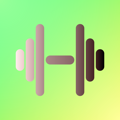
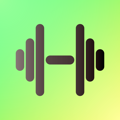
darker dumbbel

Changed region(s): [[0.125, 0.2, 0.825, 0.8]]

diff --git a/logo.html b/logo.html
@@ -78,7 +78,6 @@
         <ul>
             <li style="color: #00ff88;">Primary: #00ff88</li>
             <li style="color: #ffea00;">Secondary: #ffea00</li>
-            <li style="font-weight: bold; background-color: #ededed; color: #664444;">Tertiary: #664444</li>
             <li style="padding: 10px; color: #000; background-color: #ededed;">Light mode background: #ededed</li>
             <li style="padding: 10px; color: #ededed; background-color: #343434;">Dark mode background: #343434</li>
         </ul>
@@ -86,15 +85,15 @@
 
     <div id="logo" class="gradient-box rounded-box">
         <div class="dumbbell">
-            <div class="dumbbell-element dumbbell-element-vertical" style="height: 30%; background: linear-gradient(to left, #ecc, #fee);"></div>
-            <div class="dumbbell-element dumbbell-element-vertical" style="height: 60%; background: linear-gradient(to left, #caa, #ecc);"></div>
-            <div class="dumbbell-element dumbbell-element-vertical" style="height: 100%; background: linear-gradient(to left, #a88, #caa);"></div>
+            <div class="dumbbell-element dumbbell-element-vertical" style="height: 30%; background: linear-gradient(to left, #766, #877);"></div>
+            <div class="dumbbell-element dumbbell-element-vertical" style="height: 60%; background: linear-gradient(to left, #655, #766);"></div>
+            <div class="dumbbell-element dumbbell-element-vertical" style="height: 100%; background: linear-gradient(to left, #544, #655);"></div>
 
-            <div class="dumbbell-element dumbbell-element-horizontal" style="width: 45%; background: linear-gradient(to left, #866, #a88);"></div>
+            <div class="dumbbell-element dumbbell-element-horizontal" style="width: 45%; background: linear-gradient(to left, #433, #544);"></div>
 
-            <div class="dumbbell-element dumbbell-element-vertical" style="height: 100%; background: linear-gradient(to left, #644, #866);"></div>
-            <div class="dumbbell-element dumbbell-element-vertical" style="height: 60%; background: linear-gradient(to left, #422, #644);"></div>
-            <div class="dumbbell-element dumbbell-element-vertical" style="height: 30%; background: linear-gradient(to left, #000, #422);"></div>
+            <div class="dumbbell-element dumbbell-element-vertical" style="height: 100%; background: linear-gradient(to left, #322, #433);"></div>
+            <div class="dumbbell-element dumbbell-element-vertical" style="height: 60%; background: linear-gradient(to left, #211, #322);"></div>
+            <div class="dumbbell-element dumbbell-element-vertical" style="height: 30%; background: linear-gradient(to left, #000, #211);"></div>
         </div>
     </div>
 
